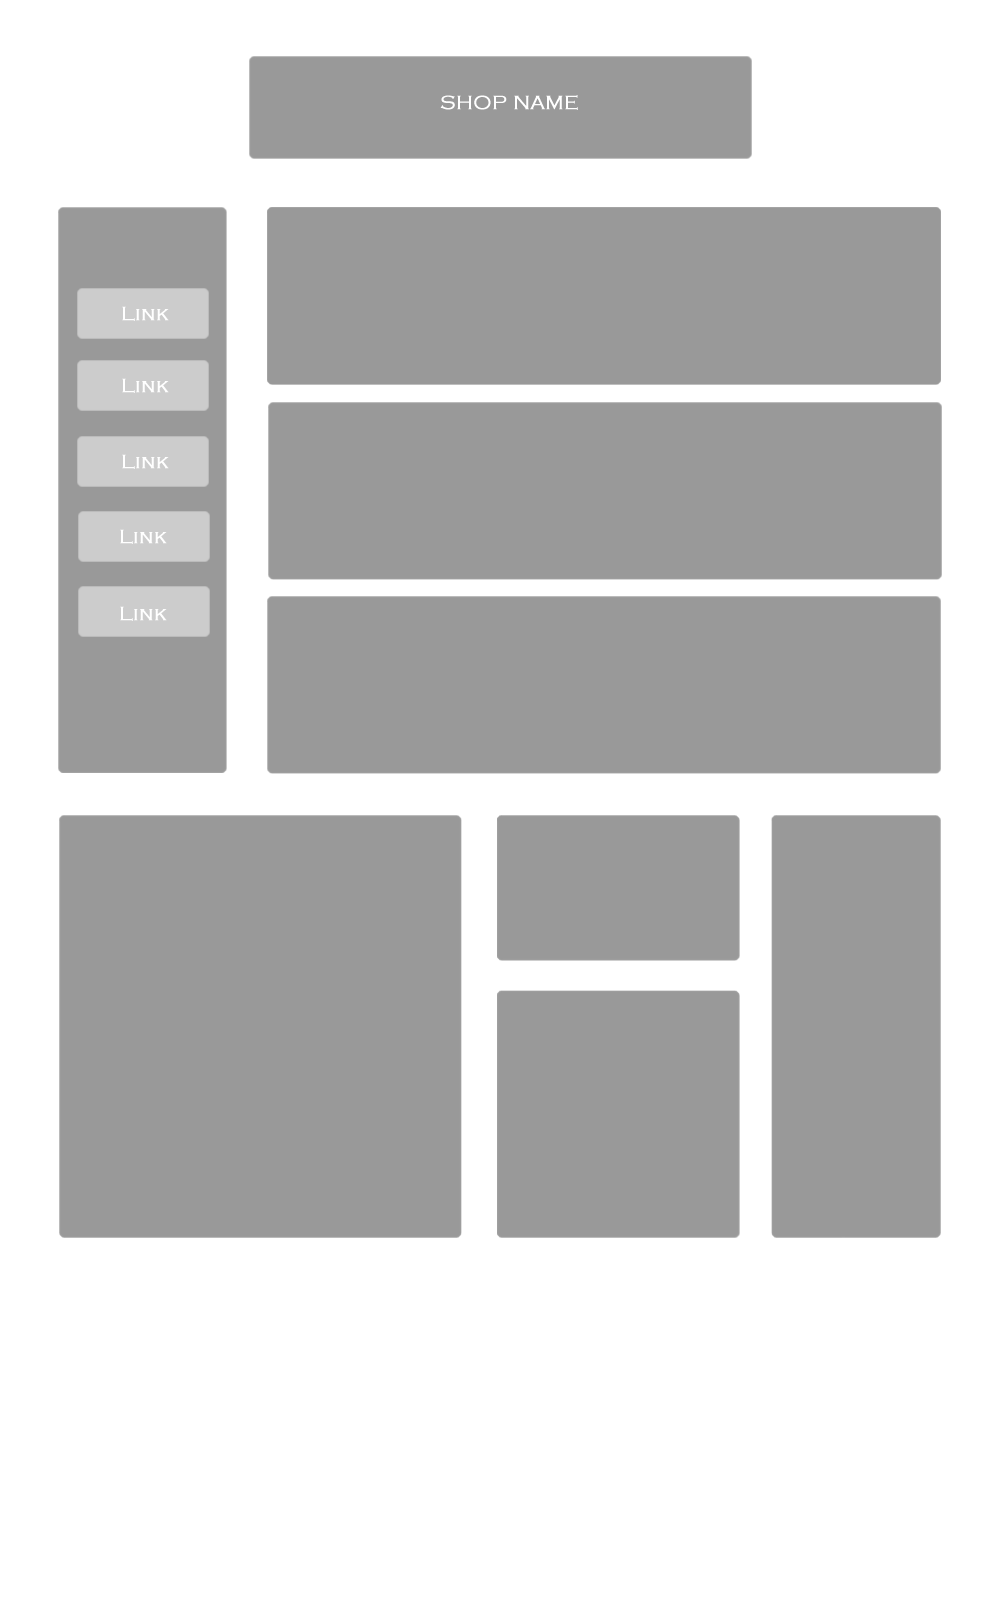
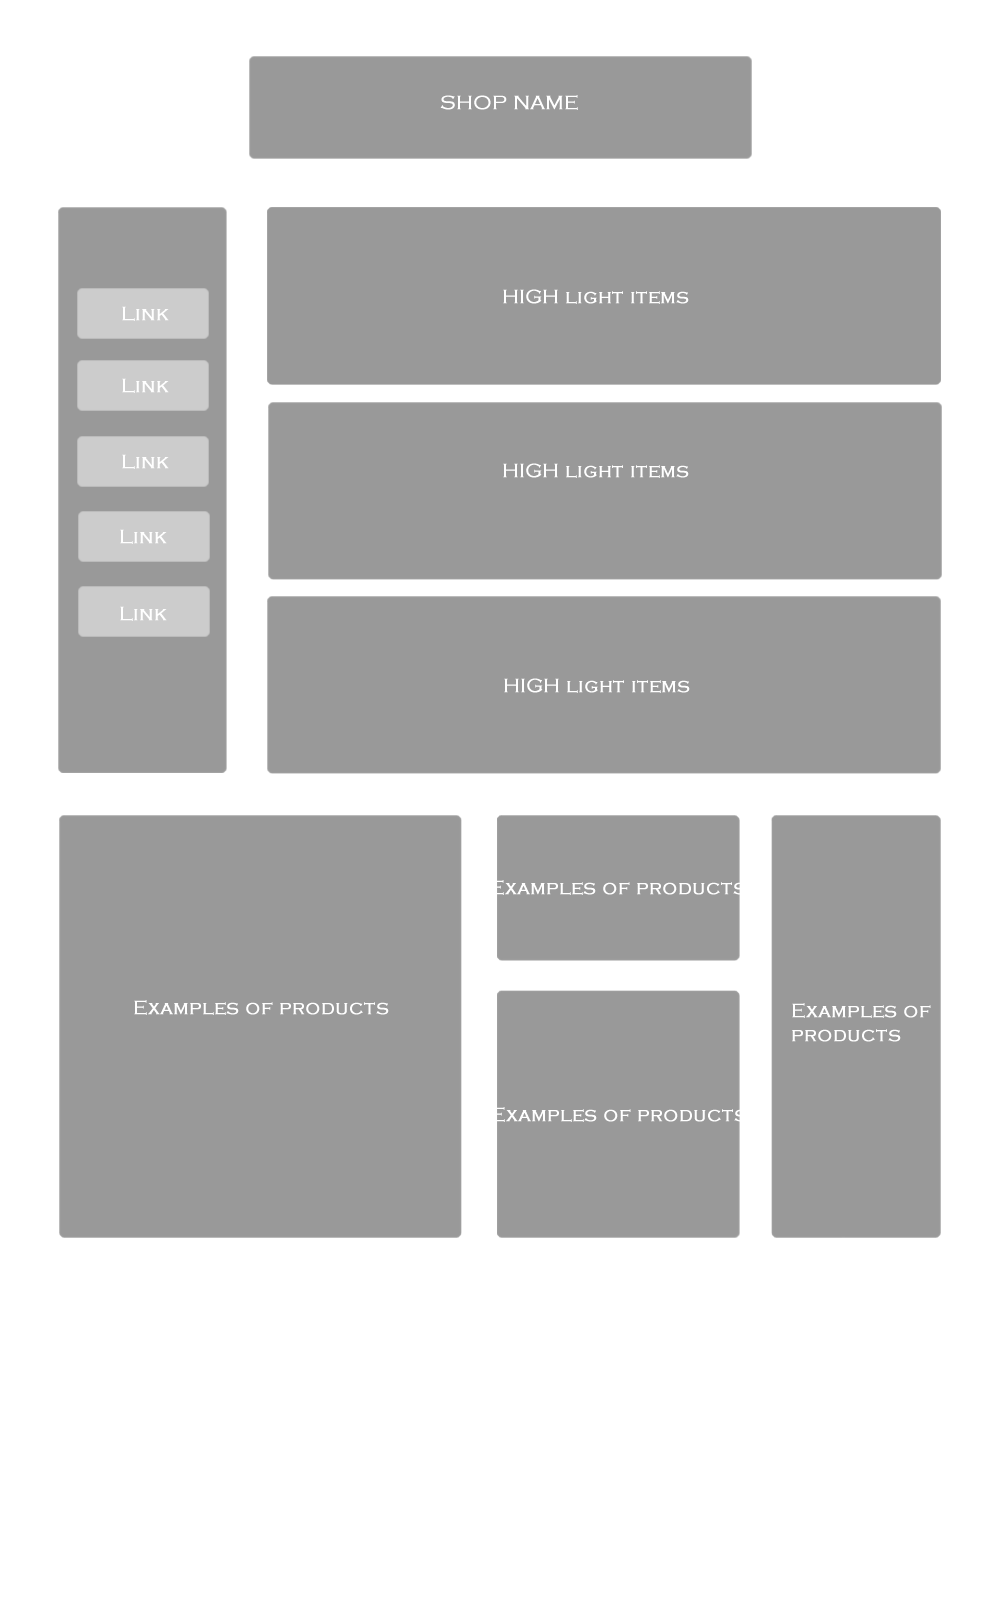
Added storyboard and update all wireframes

diff --git a/index.html b/index.html
@@ -2,6 +2,7 @@
 <html>
 <head><title>CTD Planning Site</title></head>
 <body>
+  <h1>Jessie Li's Planning Site</h1>
   <h2>Brainstorm Ideas</h2>
     <p><ul>
       <li>Design a site for a restaurant or café</li>
@@ -28,7 +29,12 @@
         <strong>Audience</strong><br>Buyers who are looking to sell jewelry to other customers, or the customers themselves who are looking for new and exotic jewelry separate from the regular trend.<br><br>
         <strong>Specific Purpose</strong><br>Shows the buyers and customers the products that the shop carries, as well as product codes, and background and contact information on the store.<br><br>
         <strong>Client</strong><br>The owner of the jewelry store (Puneet's parents). The site solves their problem or not being able to inform their customers of the products that the store carries. It will showcase the jewelry to people who can't access the actual shop in India conveniently.<br><br>
-        <strong>Objectives</strong><br>To make a visually appealing site that clearly shows the variety of products that the shop has. It should provide contact information and product codes, so that customers can order the jewelry. Furthermore, the site should be easy to navigate and access. <br><br>
+        <strong>Objectives</strong><br><ul>
+            <li>Visually appealing page</li>
+            <li>Shows a variety of products</li>
+            <li>Shows contact information</li>
+            <li>Instructions for how to order the products</li>
+        </ul><br><br>
         <strong>Success Criteria</strong><br>
         <img src="Screen%20Shot%202014-12-19%20at%202.47.39%20PM.png"><br><br>
         <strong>Flowchart Ideas</strong><br>
@@ -46,8 +52,10 @@
    <h2>Mapping Out the Webpages</h2>
     <h3>Wireframes</h3>
     <p>
-        Today, we started making wireframes in class for the home page of our jewellery website. We worked off of several hand written ideas that we had, and each group member redid one of the ideas on Fireworks to better show the potential layout of the website. When deciding how to construct our home page, we consulted many well known jewellery websites, such as Tiffany, Cartier, and Van Cleef n Arpels. Below is my first HI-FI wireframe of our site's main page:<br><img src="Wireframe.png">
+        Today, we started making wireframes in class for the home page of our jewellery website. We worked off of several hand written ideas that we had, and each group member redid one of the ideas on Fireworks to better show the potential layout of the website. When deciding how to construct our home page, we consulted many well known jewellery websites, such as Tiffany, Cartier, and Van Cleef n Arpels. Below is my first HI-FI wireframe of our site's main page, as well as wireframes made by other members of my group:<br><img src="Wireframe.png"><br><img src="Screen%20Shot%202015-01-14%20at%209.38.18%20AM.png"><br><img src="Screen%20Shot%202015-01-14%20at%209.38.31%20AM.png"><br>
     </p>
+    <h3>Storyboard</h3>
+    <img src="storyboard%201.png"><br><p>After our discussion where we shared our storyboards, I realised that the title, and especially the sidebar, were taking up too much space in the page. It pushed the pictures down so that they can't be seen unless the viewer scrolls down. For my next draft, I plan of making the sidebar with the links much smaller and moving it more to the side so that the pictures can move up.</p>
 </body>
 </html>
 .
